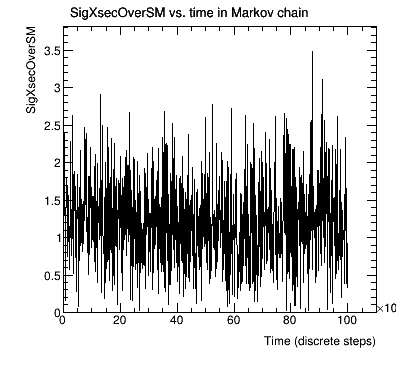
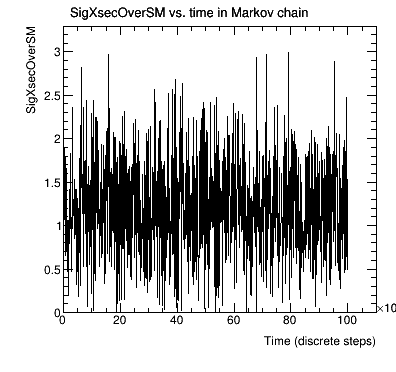
SequentialProposal: replace 'oversampling' with 'importanceFactor'.

diff --git a/tutorials/roostats/StandardBayesianMCMCDemo.C b/tutorials/roostats/StandardBayesianMCMCDemo.C
@@ -40,10 +40,7 @@ for simple problems, but it scales to much more complicated cases.
 #include "RooStats/ProposalHelper.h"
 #include "RooStats/ProposalHelper.h"
 #include "RooFitResult.h"
-<<<<<<< HEAD
 #include "RooRandom.h"
-=======
->>>>>>> development
 
 
 using namespace RooFit;
@@ -52,14 +49,10 @@ using namespace RooStats;
 void StandardBayesianMCMCDemo(const char* infile = "",
 		      const char* workspaceName = "combined",
 		      const char* modelConfigName = "ModelConfig",
-<<<<<<< HEAD
 		      const char* dataName = "obsData")
 {
 
   RooRandom::randomGenerator()->SetSeed( 0 );
-=======
-		      const char* dataName = "obsData"){
->>>>>>> development
 
   /////////////////////////////////////////////////////////////
   // First part is just to access a user-defined file 
@@ -144,14 +137,14 @@ void StandardBayesianMCMCDemo(const char* infile = "",
   // 
   // 95% interval on SigXsecOverSM is : [0, 2.15359] 
   //
-  // Use factor 10 oversampling on parametersOfInterest
-  //SequentialProposal sp(0.1, *mc->GetParametersOfInterest(), 3);
+  // Use importance factor 3 on parametersOfInterest
+  //SequentialProposal sp(1, *mc->GetParametersOfInterest(), 3);
   // Factor 3:
   // [#1] INFO:Eval -- Proposal acceptance rate: 18.0398%
   // [#1] INFO:Eval -- Number of steps in chain: 180398
   // 
   // 95% interval on SigXsecOverSM is : [0, 2.15503] 
-  SequentialProposal sp(10, *mc->GetParametersOfInterest(), 3);
+  SequentialProposal sp(1, *mc->GetParametersOfInterest(), 3);
 
   /////////////////////////////////////////////
   // create and use the MCMCCalculator

diff --git a/tutorials/roostats/py/SequentialProposalDemo.py b/tutorials/roostats/py/SequentialProposalDemo.py
@@ -101,10 +101,10 @@ def main():
            "title"   : "Divisor = 100" },
          { "proposal": ROOT.RooStats.SequentialProposal(10, mc.GetParametersOfInterest(), 3), 
            "id"      : "SequentialProposal_10_03",
-           "title"   : "Divisor = 10, Oversampling of POI = 3" },
+           "title"   : "Divisor = 10, Importance factor of POI = 3" },
          { "proposal": ROOT.RooStats.SequentialProposal(10, mc.GetParametersOfInterest(), 10), 
            "id"      : "SequentialProposal_10_10",
-           "title"   : "Divisor = 10, Oversampling of POI = 10" },
+           "title"   : "Divisor = 10, Importance factor of POI = 10" },
       ]
    
    
@@ -176,8 +176,6 @@ def main():
          h5.SetTitle( "Comparison of Posterior Contours (red) and NLL Contours (blue)" )
          h5.GetZaxis().SetTitle( "Posterior Contours (red) / NLL Contours (blue)" )
          cont.append( h5 )
-         #cont68Marginalized = getContours( h5, contourLevel(h5,0.68), c3 )
-         #cont95Marginalized = getContours( h5, contourLevel(h5,0.95), c3 )
          cont68Marginalized = getContours( h5, plot.ContourLevel(h5,0.68), c3 )
          cont95Marginalized = getContours( h5, plot.ContourLevel(h5,0.95), c3 )
          cont.append( cont68Marginalized+cont95Marginalized )

diff --git a/roofit/roostats/inc/RooStats/SequentialProposal.h b/roofit/roostats/inc/RooStats/SequentialProposal.h
@@ -29,7 +29,7 @@ class SequentialProposal : public ProposalFunction {
    public:
    SequentialProposal() : RooStats::ProposalFunction(), fDivisor(0) {}
       SequentialProposal(double divisor);
-      SequentialProposal(double divisor, const RooArgSet& oversampling, int oversamplingFactor);
+      SequentialProposal(double divisor, const RooArgSet& importantVariables, int importanceFactor);
 
       // Populate xPrime with a new proposed point
       virtual void Propose(RooArgSet& xPrime, RooArgSet& x);
@@ -50,8 +50,8 @@ class SequentialProposal : public ProposalFunction {
     private:
       double fDivisor;
 
-      const RooArgSet* fOversamplingVariables;
-      int fOversamplingFactor;
+      const RooArgSet* fImportantVariables;
+      int fImportanceFactor;
 };
 
 } 

diff --git a/tutorials/roostats/py/README.md b/tutorials/roostats/py/README.md
@@ -25,11 +25,11 @@ Changing to SequentialProposal(100.0).<br />
 ![seqProp_extras](docImages/SequentialProposal_100_POIAndFirstNuisParWalk.png)
 
 Now, using the standard SequentialProposal(10.0), let's look at various values of 
-the "oversampling". This is oversampling=3.<br />
+the importance factor. This is importanceFactor=3.<br />
 <!--![seqProp_interval](docImages/SequentialProposal_10_03_interval.png)-->
 ![seqProp_extras](docImages/SequentialProposal_10_03_POIAndFirstNuisParWalk.png)
 
-And oversampling=10.<br />
+And importanceFactor=10.<br />
 <!--![seqProp_interval](docImages/SequentialProposal_10_10_interval.png)-->
 ![seqProp_extras](docImages/SequentialProposal_10_10_POIAndFirstNuisParWalk.png)
 
